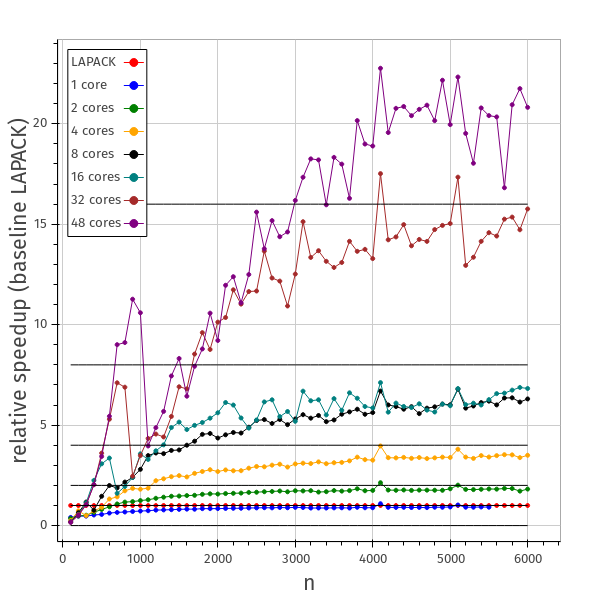
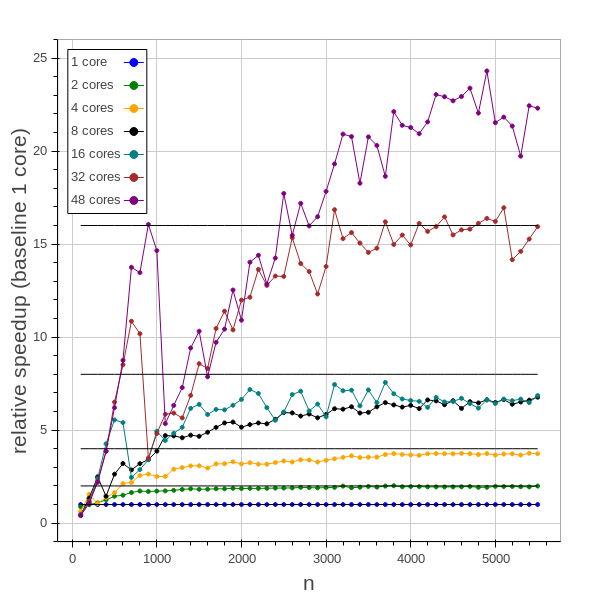
absolute and relative speedup

diff --git a/report/techreport.tex b/report/techreport.tex
@@ -11,11 +11,7 @@
 \usepackage{listings}
 \usepackage{amsmath}
 \usepackage{amssymb}
-\lstset{
-language=C,
-tabsize=4,
-showstringspaces=false
-}
+\lstset{language=C,tabsize=4,showstringspaces=false}
 
 \pdfcompresslevel=9
 %
@@ -42,7 +38,8 @@ In this paper we demonstrate how a driver function of PLASMA~\cite{YarKhan2016} 
 Therefor we decided to show this by the cholesky factorization, which is an important decomposition of symmetric positive definite matrices in the field of scientific computing.
 To achieve this we implemented PLASMA's \textit{DPOTRF} routine and measured the processing time of its execution on two, four, eight, sixteen, 32 and 48 cores. For time measuring we used the library PAPI~\cite{icl:59}.\\
 All measurements were done on a system with an x86\_64 architecture, 48 CPUs, one thread per core, AMD Opteron\texttrademark{} Processor 6174 with a theoretical peak performance of 2200.00 MHz. Furthermore there are 8 NUMA nodes, which combine six cores per each node.
-Since it was not easy to found out how many instructions per cycle (IPC) this particular AMD processor can handle, we assumed that it is just as high as in similiar processors of AMD. In ~\cite{amd05} it says that the number of operations which the processor can handle in one cycle is four.
+Since it was not easy to found out how many instructions per cycle (IPC) this particular AMD processor can handle,
+we assumed that it is just as high as in similiar processors of AMD\@. In~\cite{amd05} it says that the number of operations which the processor can handle in one cycle is four.
 In the end we compared PLASMA's \textit{DPOTRF} runtimes to the sequential cholesky decomposition implemented in LAPACK~\cite{lapack03} and calculated absolute and relative speedups.
 
 \section{Implementation}
@@ -137,7 +134,7 @@ Since there is no function in PLASMA, LAPACK or BLAS which can compute a matrix 
 In the beginning of our implementation we used here BLAS and LAPACK functions, because we don't measure execution time of the residual calculation. When testing we recognized that the residual computation takes a lot of time and so we replaced all functions with the related PLASMA ones.\\
 This resulted in a far quicker execution.
 \ \\
-For gathering output data we coded a python-script which hashed the data. This made further processing e.g. plotting a lot easier.
+For gathering output data we coded a python-script which hashed the data. This made further processing e.g.\ plotting a lot easier.
 
 \section{Evaluation}
 Because the measurement was done on a shared system
@@ -156,11 +153,11 @@ those with 100\% certainty.
 \label{fig:runtime}
 	\end{subfigure}
 	\begin{subfigure}{0.4\textwidth}
-		\includegraphics[width=\textwidth]{relSpeedup}
-		\caption{Relative Speedup}
-\label{fig:rel}
+		\includegraphics[width=\textwidth]{res}
+		\caption{Residuum}
+\label{fig:residuum}
 	\end{subfigure}
-	\caption{Runtime of PLASMA vs LAPACK}
+	\caption{Runtime and Residuum of PLASMA vs LAPACK}
 \end{figure}
 
 In figure~\ref{fig:runtime}
@@ -185,22 +182,29 @@ the worse the performance relatively to the theoretical performance.
 \begin{figure}[h!]
 	\centering
 	\begin{subfigure}{0.4\textwidth}
-	\includegraphics[width=\textwidth]{res}
-	\caption{Residuum}
-\label{fig:residuum}
+	\includegraphics[width=\textwidth]{abs_speedup}
+	\caption{Absolute speedup (baseline LAPACK)}
+\label{fig:rel}
 	\end{subfigure}
 	\begin{subfigure}{0.4\textwidth}
-	\includegraphics[width=\textwidth]{mflops}
-	\caption{MFlops per second}
-\label{fig:mflops}
+	\includegraphics[width=\textwidth]{rel_speedup}
+	\caption{Relative speedup (baseline 1 core)}
+\label{fig:abs}
 	\end{subfigure}
-	\caption{Residuum and Performance comparisons}
+	\caption{Relative and absolute speedups}
 \end{figure}
 
 The residuum is shown in figure~\ref{fig:residuum}.
 All PLASMA versions have the same residuum behavior, but LAPACK is always a bit better.  
 There are certain thresholds after which the residuual gets worse (200, 500, 1000, 2000, 4000).
 After these sudden increases the residuum gets better with higher $n$.
+
+\begin{figure}[h!]
+	\centering
+	\includegraphics[width=\textwidth]{mflops}
+	\caption{MFlops/s LAPACK vs PLASMA} 
+\label{fig:mflops}
+\end{figure}
 
 In figure~\ref{fig:mflops} we see the Mflops per second.
 We see that both LAPACK and PLASMA with one core are very similar. 
@@ -227,10 +231,9 @@ The jumppoints have a very systematic distribution, so it is likely that
 LAPACK changes some parameters when around these thresholds.
 
 For mflops we roughly get 150 Gflops.
-This is \~70\% of the theoretical peak performance of 211 Gflops/s.
-The numbers seems very high when compared to other publications e.g.~\cite{lawn266}
-where not even 50\% of the theoretical peak performance is reached, although in that case
-GPUs were used. 
+We reach \~35\% of the theoretical peak performance of 422 Gflops/s.
+This is similar to other publications, e.g.~\cite{lawn266},
+although in that case GPUs were used.
 
 %  
 \bibliographystyle{plain} %Switches are plain,unsrt,abbrv,alpha.
